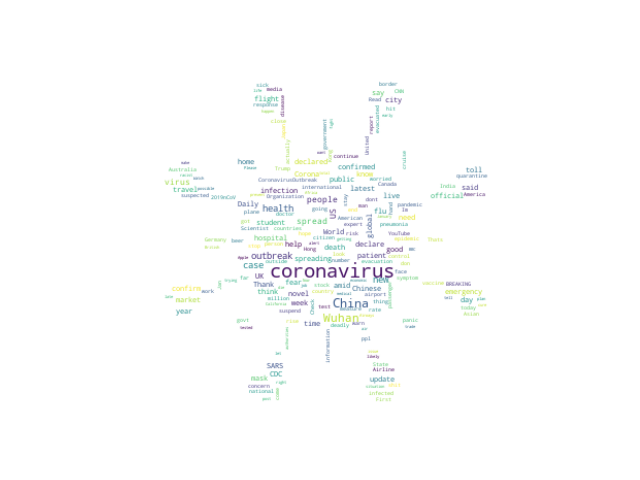
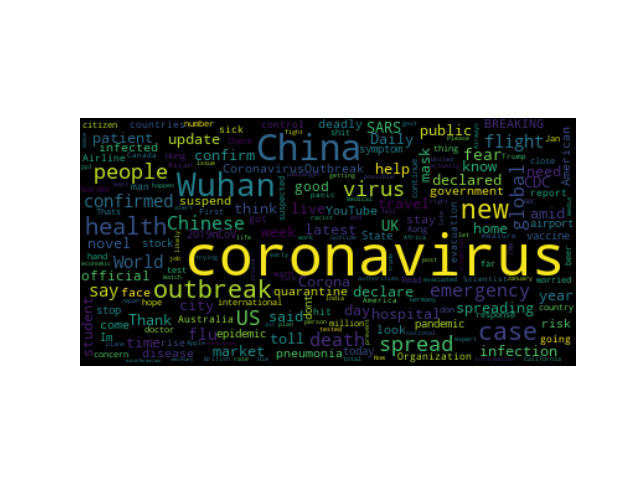
Fixing some clouds

diff --git a/core/popularWords.py b/core/popularWords.py
@@ -54,7 +54,7 @@ covidImage = np.array(Image.open("./images/covidMask.jpg"))
 #generate wordclouds
 def gen(strText,path):
     strText = strText.replace("amp","")
-    wc = WordCloud(background_color='white',stopwords=None,min_word_length=2,mask=covidImage,collocations=False).generate(strText)
+    wc = WordCloud(background_color='black',stopwords=None,min_word_length=2,collocations=False).generate(strText)
     plt.figure()
     plt.imshow(wc, interpolation='bilinear')
     plt.axis('off')
